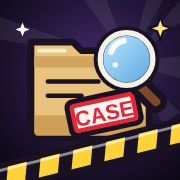
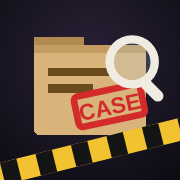
아이콘은 B로 되돌림, 게임 애니메이션 추가: 지도 감정 말풍선(❗💬❓💦)·단서 카드 회전과 반짝이·심문 등장 슬라이드·대사 길이 맞춤 타자와 ▼
Claude-Session: https://claude.ai/code/session_01LmXsLeEigTPH1ejPwUKwUV

diff --git a/index.html b/index.html
@@ -981,7 +981,19 @@ body.lowfx .stage .stage-sprite { animation: none !important; }
 .speech.vn .line.them .who-tag { display: inline-block; background: #c9a24e; color: #15110e; padding: 1px 10px; border-radius: 3px; font-weight: 700; margin: -2px 0 4px; }
 .speech.vn .line.them.broken { border-color: #ff4b4b; } .speech.vn .line.them.broken .who-tag { background: #ff4b4b; color: #fff; }
 .speech.vn .line.them.secret { border-color: #7fd1a0; } .speech.vn .line.them.secret .who-tag { background: #7fd1a0; }
-.stage.new .line.them p { animation: vn-type 1.1s steps(36) both; }
+.stage.new .line.them p { animation: vn-type var(--type, 1.1s) steps(36) both; }
+.stage .line.them::after { content: "▼"; position: absolute; right: 10px; bottom: 4px; font-size: 10px; color: var(--lamp); animation: vn-next .8s steps(2) infinite; }
+.stage.new .line.them::after { animation: vn-next .8s steps(2) infinite, op-fade .2s var(--type, 1.1s) both; }
+.stage .line.them { position: relative; }
+@keyframes vn-next { 50% { opacity: 0; transform: translateY(2px); } }
+.stage.enter .stage-sprite { animation: st-enter .55s cubic-bezier(.2,1.3,.4,1) both, st-breathe 3.2s .55s ease-in-out infinite; }
+@keyframes st-enter { from { transform: translateX(-120%); opacity: 0; } }
+.stage.enter .speech { animation: st-bubble .45s .25s cubic-bezier(.2,1.5,.4,1) both; } @keyframes st-bubble { from { transform: scale(.6); opacity: 0; } }
+.clue-card { animation: cc-spin .55s cubic-bezier(.2,1.4,.4,1) both, cc-out .5s 1.8s ease-in forwards !important; }
+@keyframes cc-spin { 0% { transform: translateX(60px) rotateY(90deg) scale(.6); opacity: 0; } 60% { transform: rotateY(-12deg) scale(1.05); opacity: 1; } 100% { transform: rotate(-2deg); } }
+.cc-spark { position: absolute; color: #e2b25c; font-style: normal; font-size: 18px; pointer-events: none; animation: cc-burst .8s ease-out both; text-shadow: 0 0 6px #fff7c0; }
+.cc-spark.s1 { left: -8px; top: -10px; } .cc-spark.s2 { right: -6px; top: 30%; animation-delay: .1s; } .cc-spark.s3 { left: 30%; bottom: -12px; animation-delay: .2s; font-size: 14px; }
+@keyframes cc-burst { 0% { transform: scale(0) rotate(0); opacity: 0; } 40% { transform: scale(1.4) rotate(90deg); opacity: 1; } 100% { transform: scale(.6) rotate(180deg); opacity: 0; } }
 @keyframes vn-type { from { clip-path: inset(0 100% 0 0); } to { clip-path: inset(0 0 0 0); } }
 body.talking .person-head .portrait { display: none; }
 @media (max-width: 720px) {
@@ -3457,6 +3469,7 @@ function addClue(id) {
   popCard(`<span class="cc-tag">🔎 증거 발견${key ? " · 결정적일지도!" : ""}</span><b>${esc(c.clues[id].name)}</b><small>${esc(c.clues[id].text.slice(0, 54))}${c.clues[id].text.length > 54 ? "…" : ""}</small>`, key ? "gold" : "");
   Sound.clue(); if (key) setTimeout(() => Sound.help(), 180);
   if (id === "body") setTimeout(openBodyPhoto, 900);
+  try { PX.emote("me", "❗"); } catch (e) {}
   if (id === "body" && drugInfo()) setTimeout(() => popCard(`<span class="cc-tag">💊 약물 의심</span><b>약물 흔적이 보인다</b><small>${deptOn("drug") ? "마약팀에게 이 단서를 물어보면 무슨 약인지, 몸에 어떻게 해로운지 알려 줘요." : "약물은 마약팀 전문이에요. (이번엔 마약팀을 안 데려왔어요)"}</small>`, "unlock"), 2600);   /* 시신을 처음 살피면 감식 사진을 바로 보여 준다 */
   /* 이 단서로 열리는 숨겨진 진술 */
   const who = Object.values(c.suspects).filter(p => p.qs.some(q => q.need === id && !has(S.asked, q.id))).map(p => p.name);
@@ -3664,7 +3677,7 @@ function openBodyPhoto() {
 const hasHidden = sid => { const p = C().suspects[sid]; return !!p && p.qs.some(q => q.need && has(S.found, q.need) && !has(S.asked, q.id)); };
 /* ===================== 연출: 증거 카드 · 모순 쾅 · 방 제목 · 범인 지목 ===================== */
 function popCard(html, cls = "") {
-  const el = document.createElement("div"); el.className = "clue-card " + cls; el.innerHTML = html;
+  const el = document.createElement("div"); el.className = "clue-card " + cls; el.innerHTML = html + `<i class="cc-spark s1">✦</i><i class="cc-spark s2">✦</i><i class="cc-spark s3">✧</i>`;
   document.body.appendChild(el); setTimeout(() => el.remove(), 2300);
 }
 function slam(word, sub = "", cls = "") {
@@ -5462,6 +5475,8 @@ const PX = (() => {
   const keys = {};
   const me = { fx: 5, fy: 6, dir: "up", path: null, after: null, seg: null, frameT: 0, frame: 0 };
   let npcs = [], hint = null;
+  const emotes = {};
+  function emote(who, ch, ms = 1300) { emotes[who] = { ch, born: performance.now(), until: performance.now() + ms }; }
   const helpers = {};
   const SPEED = 4.6;   /* 칸/초 */
 
@@ -5732,7 +5747,7 @@ const PX = (() => {
   function act(t) {
     if (!t) return;
     if (t.kind === "obj") { if (doSearch(t.ref.spot)) render(); }
-    else if (t.kind === "ally") openCopAsk(t.who, t.name);   /* 경찰에게 말 걸기: 단서를 물어볼 수 있다 */
+    else if (t.kind === "ally") { emote(t.name, "💬"); emote("me", "❓", 900); openCopAsk(t.who, t.name); }   /* 경찰에게 말 걸기: 단서를 물어볼 수 있다 */
     else if (t.kind === "person" && t.ref.kind === "h") openCopAsk(t.ref.id.slice(2), t.ref.name);
     else if (t.kind === "person") { S.tab = "people"; S.suspect = t.ref.id; S.dlg = null; render(); window.scrollTo(0, 0); }
   }
@@ -5796,6 +5811,26 @@ const PX = (() => {
     if (buddy.on) ents.push({ y: buddy.fy - .01, draw: () => drawSprite(charSprites(N.seo, "순경"), buddy.dir, buddy.frameT, buddy.fx, buddy.fy) });
     ents.push({ y: me.fy, draw: () => drawSprite(charSprites(pname(), "", true), me.dir, me.frameT, me.fx, me.fy) });
     ents.sort((a, b) => a.y - b.y).forEach(e => e.draw());
+    /* 감정 말풍선: 머리 위로 톡 튀어나왔다가 사라진다 */
+    const posOf = who => who === "me" ? me : who === N.seo && buddy.on ? buddy : (npcs.find(n => n.p.name === who) || Object.values(helpers).find(h => h.room === S.room && h.p.name === who) || null);
+    const nowMs = performance.now();
+    for (const [who, em] of Object.entries(emotes)) {
+      if (nowMs > em.until) { delete emotes[who]; continue; }
+      const at = posOf(who); if (!at) continue;
+      const age = (nowMs - em.born) / 1000, pop = age < .15 ? age / .15 : 1, hop = age < .3 ? Math.sin(age / .3 * Math.PI) * 3 : 0;
+      const x = Math.round((at.fx + .5) * TS), y = Math.round(at.fy * TS + TS - 24 - hop);
+      g.save(); g.translate(x, y); g.scale(pop, pop);
+      g.fillStyle = "#fffdf6"; g.strokeStyle = "#1a1220"; g.lineWidth = 1;
+      g.beginPath(); g.roundRect ? g.roundRect(-6, -7, 12, 11, 3) : g.rect(-6, -7, 12, 11); g.fill(); g.stroke();
+      g.beginPath(); g.moveTo(-2, 4); g.lineTo(0, 7); g.lineTo(2, 4); g.fill(); g.stroke();
+      g.font = "8px sans-serif"; g.textAlign = "center"; g.textBaseline = "middle"; g.fillStyle = "#1a1220"; g.fillText(em.ch, 0, -1.5);
+      g.restore();
+    }
+    /* 긴장한 사람은 가끔 식은땀 (범인·거짓말쟁이는 조금 더 자주, 다른 사람도 가끔) */
+    if (!S.decided) for (const n of npcs) {
+      const sid = n.p.id, c0 = C(), tense = sid === c0.answer.culprit ? 0.0008 : 0.0005;
+      if (!emotes[n.p.name] && Math.hypot(me.fx - n.fx, me.fy - n.fy) < 4 && Math.random() < tense) emote(n.p.name, "💦", 1400);
+    }
     /* 손전등 같은 조명 */
     const lx = (me.fx + .5) * TS, ly = (me.fy + .5) * TS, grd = g.createRadialGradient(lx, ly, 10, lx, ly, 120);
     grd.addColorStop(0, "rgba(255,220,160,0.06)"); grd.addColorStop(.35, "rgba(6,9,13,0.12)"); grd.addColorStop(1, "rgba(6,9,13,0.5)");
@@ -5899,6 +5934,7 @@ const PX = (() => {
   }
 
   return {
+    emote,
     mount(el) {
       host = el; if (!el) return;
       if (!cv) {
@@ -6378,10 +6414,11 @@ function renderPeople(out) {
         <span class="duo">함께 심문: ${pixelFace(N.han, 20)}${N.han} 경위 · ${pixelFace(N.mo, 20)}${N.mo} 경사</span></div></div>
       ${(() => {
         const react = sl ? "silent" : !L ? "idle" : L.kind === "broken" ? "shock" : L.kind === "secret" ? "soft" : (L.kind === "deflect" || L.kind === "closed") ? "smug" : "talk";
-        const key = L ? sid + "|" + L.q + "|" + L.a : sid, fresh = S._shown !== key; S._shown = key;
+        const key = L ? sid + "|" + L.q + "|" + L.a : sid, fresh = S._shown !== key, enter = S._shownSid !== sid; S._shown = key; S._shownSid = sid;
         if (fresh && L && L.a && !sl) setTimeout(() => Sound.babble(L.a, voiceOf(p.name, p.role).base), 120);   /* 용의자 목소리 */
         const th = themeOf();
-        return `<div class="stage ${react}${fresh ? " new" : ""}" style="--wall:${th.wallC || "#3a3346"}">
+        const tl = L ? Math.min(90, (L.a || "").length) : 16;
+        return `<div class="stage ${react}${fresh ? " new" : ""}${enter ? " enter" : ""}" style="--wall:${th.wallC || "#3a3346"};--type:${(tl * 0.045 + .3).toFixed(2)}s;--steps:${tl}">
           ${bigSprite(p.name, p.role)}
           ${react === "shock" ? `<i class="sweat"></i><i class="sweat s2"></i><b class="stage-fx">!!</b>` : react === "smug" ? `<b class="stage-fx smug">…</b>` : react === "soft" ? `<b class="stage-fx soft">♥</b>` : ""}
           <div class="speech vn">${speech}</div>

diff --git a/sw.js b/sw.js
@@ -1,6 +1,6 @@
 /* 한밤의 사건 파일 — 오프라인 저장(서비스 워커)
    한 번 접속하면 게임 파일을 휴대폰에 저장해 두고, 데이터가 없어도 저장된 파일로 연다. */
-const CACHE = "midnight-v4";
+const CACHE = "midnight-v5";
 const CORE = ["./", "./index.html", "./manifest.webmanifest", "./icon-180.png", "./icon-192.png", "./icon-512.png", "./icon.svg"];
 
 self.addEventListener("install", e => {

diff --git a/README.md b/README.md
@@ -306,4 +306,6 @@
 ### 🎬 애니메이션
 - **인물이 살아 움직여요**: 심문·최종 추궁 무대의 인물은 숨 쉬듯 들썩이고, 가끔 **눈을 깜빡이고**, 말할 때 **입이 뻐끔거려요**(소리를 꺼도 움직여요).
 - **감정 동작**: 거짓말이 들키면 화면이 **확 줌인**되며 인물이 **펄쩍 뛰고** 떨려요. 비웃을 땐 고개를 젖히고 까딱이고, 마음을 열면 가볍게 들썩여요. 입을 다물면 멈춰요.
+- **지도 위 감정 말풍선**: 단서를 찾으면 내 머리 위에 ❗, 경찰에게 말을 걸면 💬·❓가 톡 튀어나와요. 가까이 가면 긴장한 용의자 머리 위에 가끔 💦(식은땀)가 떠요 — 누구나 가끔 흘리지만 범인이 조금 더 자주 흘려요.
+- **단서 획득 카드**가 빙글 돌며 들어오고 반짝이가 터져요. 심문을 열면 용의자가 **옆에서 미끄러져 들어오고**, 대사는 길이에 맞춰 한 글자씩 나온 뒤 **▼**가 깜빡여요.
 - **장면 전환**: 화면이 바뀔 때 금색 줄이 지나가며 **만화처럼 닦아 내듯** 넘어가고, 탭을 바꾸면 내용이 **옆에서 미끄러져** 들어와요.
